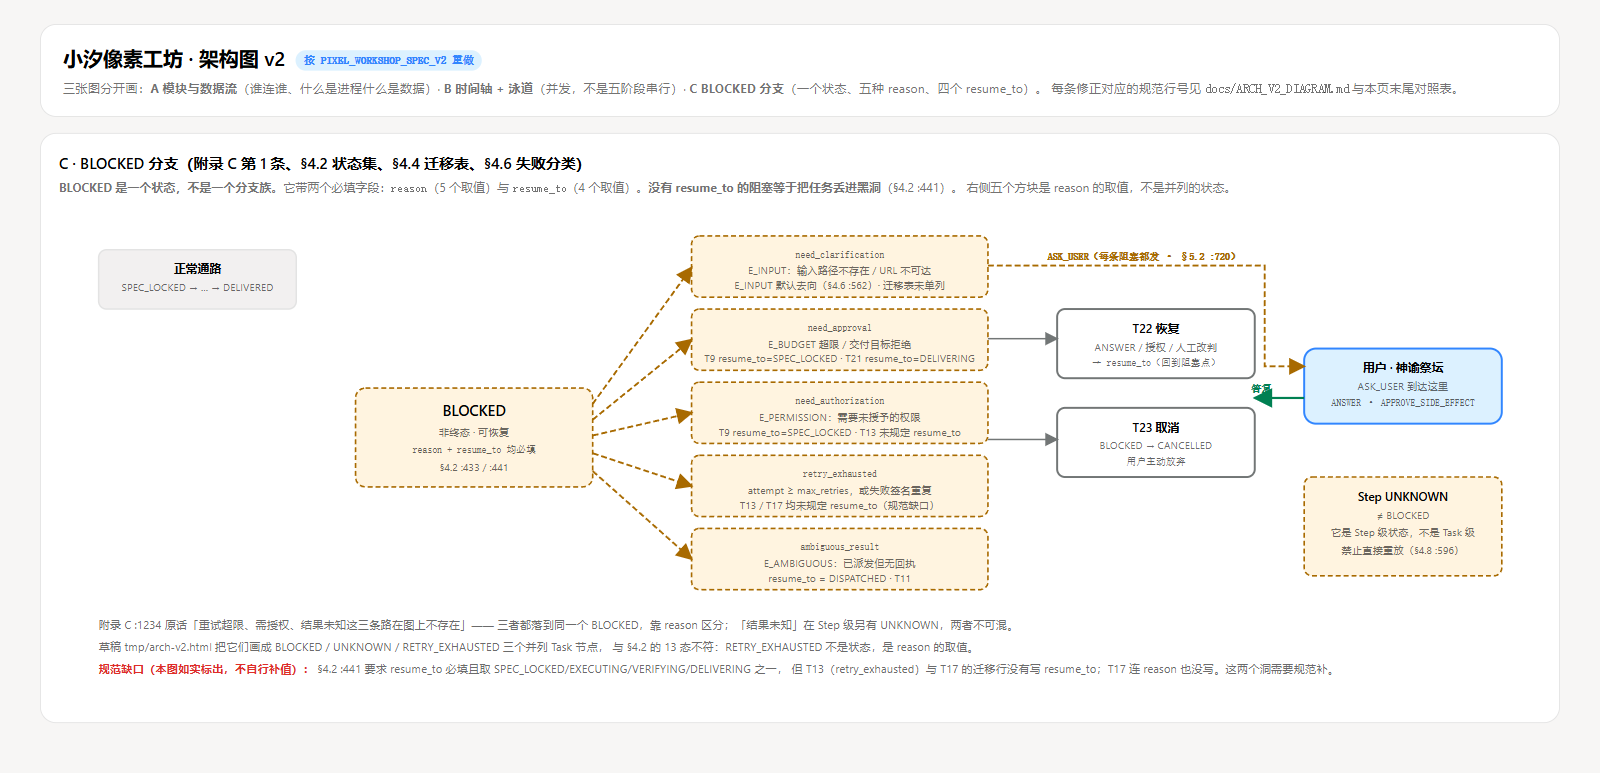
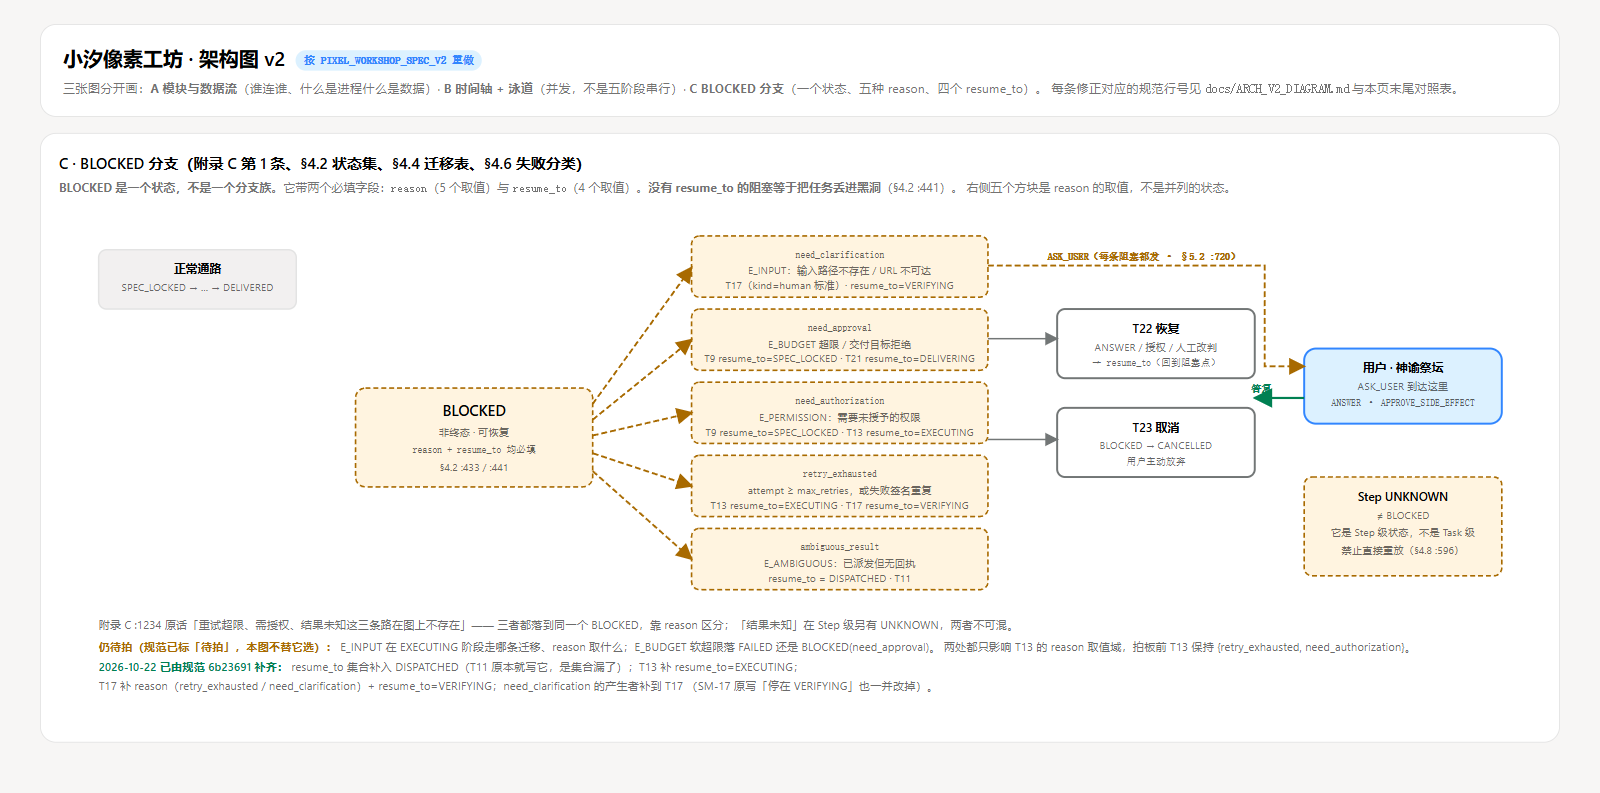
docs(arch): 图 v2 同步规范 6b23691——resume_to 集合补 DISPATCHED、T13/T17 已补值、E_BUDGET 标待拍

diff --git a/docs/ARCH_V2_DIAGRAM.html b/docs/ARCH_V2_DIAGRAM.html
@@ -382,7 +382,7 @@
     <code>resume_to</code>（4 个取值）。<b>没有 resume_to 的阻塞等于把任务丢进黑洞</b>（§4.2 :441）。
     右侧五个方块是 reason 的取值，不是并列的状态。
   </div>
-  <svg viewBox="0 0 1500 500" role="img" aria-label="BLOCKED 分支">
+  <svg viewBox="0 0 1500 520" role="img" aria-label="BLOCKED 分支">
     <defs>
       <marker id="c-ar" markerWidth="9" markerHeight="9" refX="8" refY="4.5" orient="auto"><path d="M0,0 L9,4.5 L0,9 z" fill="#727676"/></marker>
       <marker id="c-arw" markerWidth="9" markerHeight="9" refX="8" refY="4.5" orient="auto"><path d="M0,0 L9,4.5 L0,9 z" fill="#a86a00"/></marker>
@@ -405,7 +405,7 @@
     <rect class="node-fail" x="640" y="26" width="300" height="62" rx="8"/>
     <text class="s-mono" x="790" y="48" text-anchor="middle">need_clarification</text>
     <text class="s" x="790" y="65" text-anchor="middle">E_INPUT：输入路径不存在 / URL 不可达</text>
-    <text class="s" x="790" y="80" text-anchor="middle">E_INPUT 默认去向（§4.6 :562）· 迁移表未单列</text>
+    <text class="s" x="790" y="80" text-anchor="middle">T17（kind=human 标准）· resume_to=VERIFYING</text>
 
     <rect class="node-fail" x="640" y="100" width="300" height="62" rx="8"/>
     <text class="s-mono" x="790" y="122" text-anchor="middle">need_approval</text>
@@ -415,12 +415,12 @@
     <rect class="node-fail" x="640" y="174" width="300" height="62" rx="8"/>
     <text class="s-mono" x="790" y="196" text-anchor="middle">need_authorization</text>
     <text class="s" x="790" y="213" text-anchor="middle">E_PERMISSION：需要未授予的权限</text>
-    <text class="s" x="790" y="228" text-anchor="middle">T9 resume_to=SPEC_LOCKED · T13 未规定 resume_to</text>
+    <text class="s" x="790" y="228" text-anchor="middle">T9 resume_to=SPEC_LOCKED · T13 resume_to=EXECUTING</text>
 
     <rect class="node-fail" x="640" y="248" width="300" height="62" rx="8"/>
     <text class="s-mono" x="790" y="270" text-anchor="middle">retry_exhausted</text>
     <text class="s" x="790" y="287" text-anchor="middle">attempt ≥ max_retries，或失败签名重复</text>
-    <text class="s" x="790" y="302" text-anchor="middle">T13 / T17 均未规定 resume_to（规范缺口）</text>
+    <text class="s" x="790" y="302" text-anchor="middle">T13 resume_to=EXECUTING · T17 resume_to=VERIFYING</text>
 
     <rect class="node-fail" x="640" y="322" width="300" height="62" rx="8"/>
     <text class="s-mono" x="790" y="344" text-anchor="middle">ambiguous_result</text>
@@ -473,13 +473,17 @@
       三者都落到同一个 BLOCKED，靠 reason 区分；「结果未知」在 Step 级另有 UNKNOWN，两者不可混。
     </text>
     <text class="s" x="40" y="446" style="font-size:11.5px">
-      草稿 tmp/arch-v2.html 把它们画成 BLOCKED / UNKNOWN / RETRY_EXHAUSTED 三个并列 Task 节点，
-      与 §4.2 的 13 态不符：RETRY_EXHAUSTED 不是状态，是 reason 的取值。
+      <tspan style="fill:#a86a00;font-weight:600">仍待拍（规范已标「待拍」，本图不替它选）：</tspan>
+      E_INPUT 在 EXECUTING 阶段走哪条迁移、reason 取什么；E_BUDGET 软超限落 FAILED 还是 BLOCKED(need_approval)。
+      两处都只影响 T13 的 reason 取值域，拍板前 T13 保持 {retry_exhausted, need_authorization}。
     </text>
-    <text class="s" x="40" y="468" style="font-size:11.5px">
-      <tspan style="fill:#de2d29;font-weight:600">规范缺口（本图如实标出，不自行补值）：</tspan>
-      §4.2 :441 要求 resume_to 必填且取 SPEC_LOCKED/EXECUTING/VERIFYING/DELIVERING 之一，
-      但 T13（retry_exhausted）与 T17 的迁移行没有写 resume_to；T17 连 reason 也没写。这两个洞需要规范补。
+    <text class="s" x="40" y="466" style="font-size:11.5px">
+      <tspan style="fill:#008052;font-weight:600">2026-10-22 已由规范 6b23691 补齐：</tspan>
+      resume_to 集合补入 DISPATCHED（T11 原本就写它，是集合漏了）；T13 补 resume_to=EXECUTING；
+    </text>
+    <text class="s" x="40" y="486" style="font-size:11.5px">
+      T17 补 reason（retry_exhausted / need_clarification）+ resume_to=VERIFYING；need_clarification 的产生者补到 T17
+      （SM-17 原写「停在 VERIFYING」也一并改掉）。
     </text>
   </svg>
 </div>

diff --git a/docs/ARCH_V2_DIAGRAM.md b/docs/ARCH_V2_DIAGRAM.md
@@ -35,30 +35,60 @@
 
 以下三处，我**没有自行补值**，而是照规范原样画并标出缺口。理由：这三处是规范内部不自洽，改图等于替规范做决定，应当由规范作者裁决。
 
-### 3.1 T13 / T17 缺 `resume_to`（图 C 底部红字标出）
+### 3.1 T13 / T17 缺 `resume_to` —— **已由规范 `6b23691` 补齐**
 
-§4.2 :441 明确规定「`BLOCKED.resume_to ∈ {SPEC_LOCKED, EXECUTING, VERIFYING, DELIVERING}`，**必须显式给出**：没有 `resume_to` 的阻塞等于把任务丢进黑洞」。
+提出时（对 `431ca65` 核）：§4.2 :441 明确要求 `resume_to` 必须显式给出，但 §4.4 里 **T13** 只写了 `reason`、没写 `resume_to`；**T17** 连 `reason` 都没写。
 
-但 §4.4 的迁移表里：
+**2026-10-22 10:46 规范 `6b23691` 的处理（与我建议的有一处不同）：**
 
-- **T13**（`EXECUTING → BLOCKED`）：只写了 `reason ∈ {retry_exhausted, need_authorization}`，**没写 `resume_to`**
-- **T17**（`VERIFYING → BLOCKED`）：连 `reason` 都没写，只有守卫条件
+| 项 | 我建议 | 规范实际采用 |
+|---|---|---|
+| T13 的 `resume_to` | `EXECUTING` | **`EXECUTING`** ✓ 一致 |
+| T17 的 `reason` | 「`retry_exhausted`，或由 human 标准走 `need_clarification`」 | **两种都写，且规定并存时取 `need_clarification`**（要人来判，比「再试也没用」更具体）——比我的建议细 |
+| T17 的 `resume_to` | `VERIFYING` | **`VERIFYING`** ✓ 一致 |
+| `need_clarification` 的产生者 | 未提 | **补到 T17**（见 3.2） |
+| `resume_to` 集合 | 未提 | **补入 `DISPATCHED`** —— 这是我没扫出来的，见 3.4 |
 
-**这直接违反 :441 自己的硬约束。** 建议规范补：T13 补 `resume_to=EXECUTING`，T17 补 `reason=retry_exhausted` + `resume_to=VERIFYING`（或由 human 标准走 `need_clarification`）。
+**最终状态（规范 `6b23691` 之后）**：
 
-### 3.2 `need_clarification` 没有对应的 Task 迁移行
+```
+T13  EXECUTING → BLOCKED   reason ∈ {retry_exhausted, need_authorization}   resume_to=EXECUTING
+T17  VERIFYING → BLOCKED   reason=retry_exhausted | need_clarification      resume_to=VERIFYING
+                           （两者并存时取 need_clarification）
+:441 resume_to ∈ {SPEC_LOCKED, DISPATCHED, EXECUTING, VERIFYING, DELIVERING}
+```
 
-§4.2 :443 列出 `reason ∈ {need_clarification, need_approval, need_authorization, retry_exhausted, ambiguous_result}`，共 5 个取值。
+图 C 已按 `6b23691` 更新，底部红字改为绿字「已补齐」，并列出具体补了什么。
 
-但 §4.4 迁移表里，`need_clarification` 只出现在 §4.6 :562 的 `E_INPUT` 去向栏（「`BLOCKED(need_clarification)`」），**迁移表里没有任何一行产生它**。
+### 3.2 `need_clarification` 没有对应的 Task 迁移行 —— **已由 `6b23691` 补到 T17**
 
-图 C 里我把它画出来了，但标注为「`E_INPUT` 默认去向（§4.6 :562）· 迁移表未单列」。
+提出时：§4.2 :443 列了 5 个 `reason` 取值，但迁移表里**没有任何一行产生 `need_clarification`**，它只出现在 §4.6 :562 的 `E_INPUT` 去向栏。
 
-### 3.3 `E_BUDGET` 的去向是二选一，图里只能画一条
+**规范 `6b23691` 的处理比我查到的更硬**：作者写了机械核对（`reason` 集合 ∩ 每行 T 表文本），原版跑出 `need_clarification <- NONE`，其余四个各有 T9/T11/T13/T21。**补到 T17**，理由是 SM-17 本就要求在 `VERIFYING` 停下等人判，而停下必须落成带 `resume_to` 的 `BLOCKED`，T17 是唯一承载 human 标准的迁移。
 
-§4.6 :565 写 `E_BUDGET` 的去向是「`FAILED` **或** `BLOCKED(need_approval)`」。这是二选一，不是固定边。图 A 里 FAILED 与 BLOCKED 并列，**没有连线**表达这个二选一，因为画成两条会与「T14 契约违规→FAILED」冲突。
+**连带改了 SM-17**：原文「停在 `VERIFYING` 等 `ANSWER`」——停在非终态等于没有阻塞记录的悬挂，与 :441 冲突；已改为迁到 `BLOCKED(need_clarification)`。
 
-如果规范能定下「什么情况下 `E_BUDGET` 落 `FAILED`、什么情况下落 `BLOCKED`」，图 A 就能补一条确定边。
+图 C 里 `need_clarification` 那格已从「迁移表未单列」改为「T17（kind=human 标准）· resume_to=VERIFYING」。
+
+### 3.3 `E_BUDGET` 的去向是二选一 —— **规范标为「待拍」，未替它选**
+
+§4.6 :565 写 `E_BUDGET` 的去向是「`FAILED` **或** `BLOCKED(need_approval)`」。这是二选一，不是固定边。
+
+**图 A 里没有画这个二选一的连线，原因是规范没给分派判据**——不是图的容量限制。同一份输入（`E_BUDGET`）能落两个终点，而规范没写什么情况下落哪个，画任何一条都是替规范做决定。
+
+> **更正**：本节初稿写的理由是「画成两条会与『T14 契约违规→FAILED』冲突」。**这个理由不成立**——T14 存在与画不画这两条边无关；真正的问题是**分派判据缺失**，不是与别的迁移冲突。
+
+**规范 `6b23691` 的处理**：明确写「本轮**没有**替它选」，迁移表保持原样（T14 的 `budget_hard_exhausted` → `FAILED`），`BLOCKED(need_approval)` 那条路的触发条件列入「待拍」。图 C 底部已加「仍待拍」一行，与规范同步。
+
+### 3.4 `resume_to` 集合漏了 `DISPATCHED` —— 我没扫出来，规范自己找出来的
+
+原 §4.2 :441 写 `resume_to ∈ {SPEC_LOCKED, EXECUTING, VERIFYING, DELIVERING}`，**没有 `DISPATCHED`**；而 T11 明写 `resume_to=DISPATCHED`。
+
+**按原集合，T11 产出的状态违反本节自己的约束。** 规范 `6b23691` 把 `DISPATCHED` 补进集合（以 T11 为准，不是删 T11）。
+
+**这条我漏了**：我核了 T13/T17 的 `resume_to` 缺失，但没做「所有 T 行出现的 `resume_to` 值是否都在集合内」这个反向核对。**正向查「缺什么」容易，反向查「多了什么」需要把枚举值全扫一遍。**
+
+> **教训**：判据「每个 `reason` 都要有产生它的迁移行」（正向）和「每个 `resume_to` 值都要在集合内」（反向）是**两个方向**，我做了第一个就以为覆盖完了。
 
 ---
 
